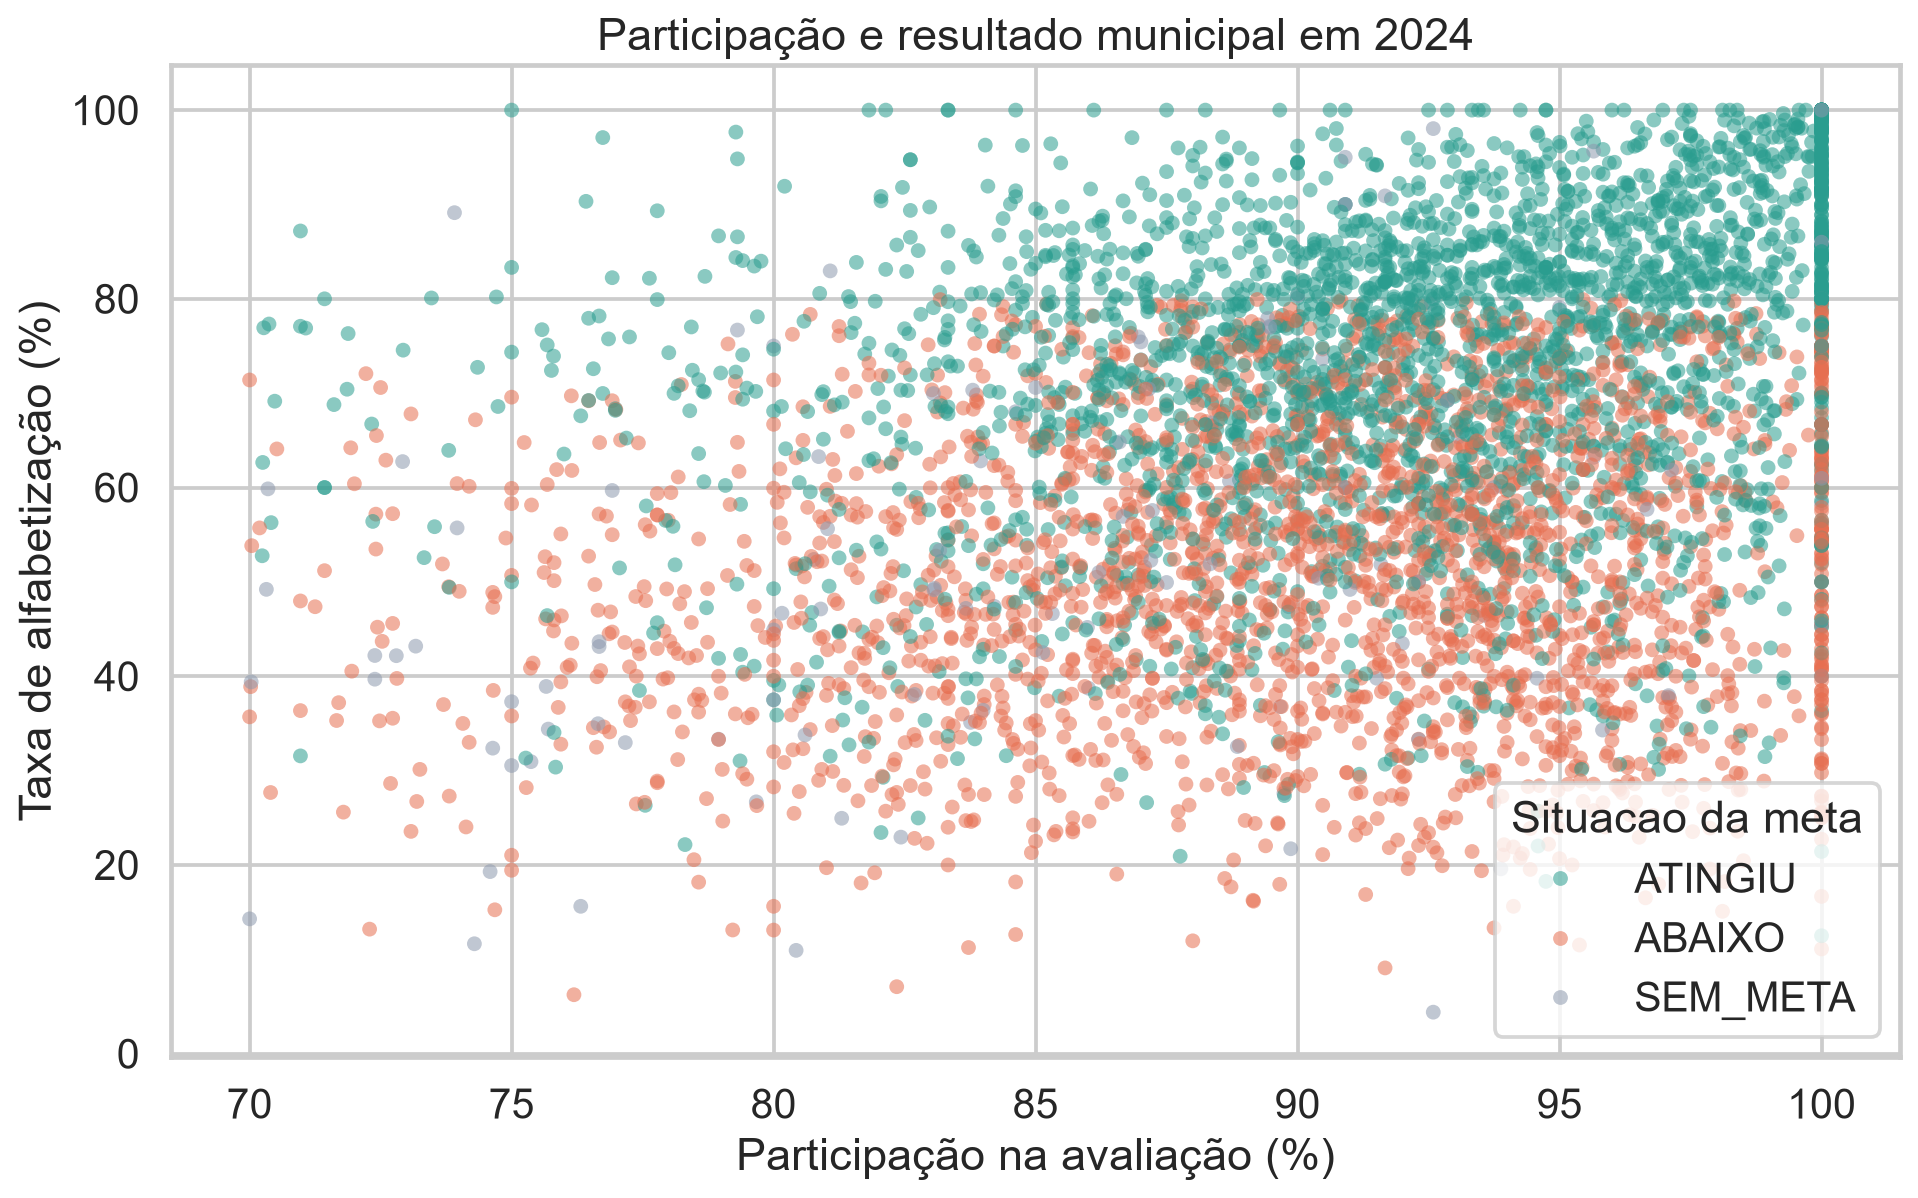
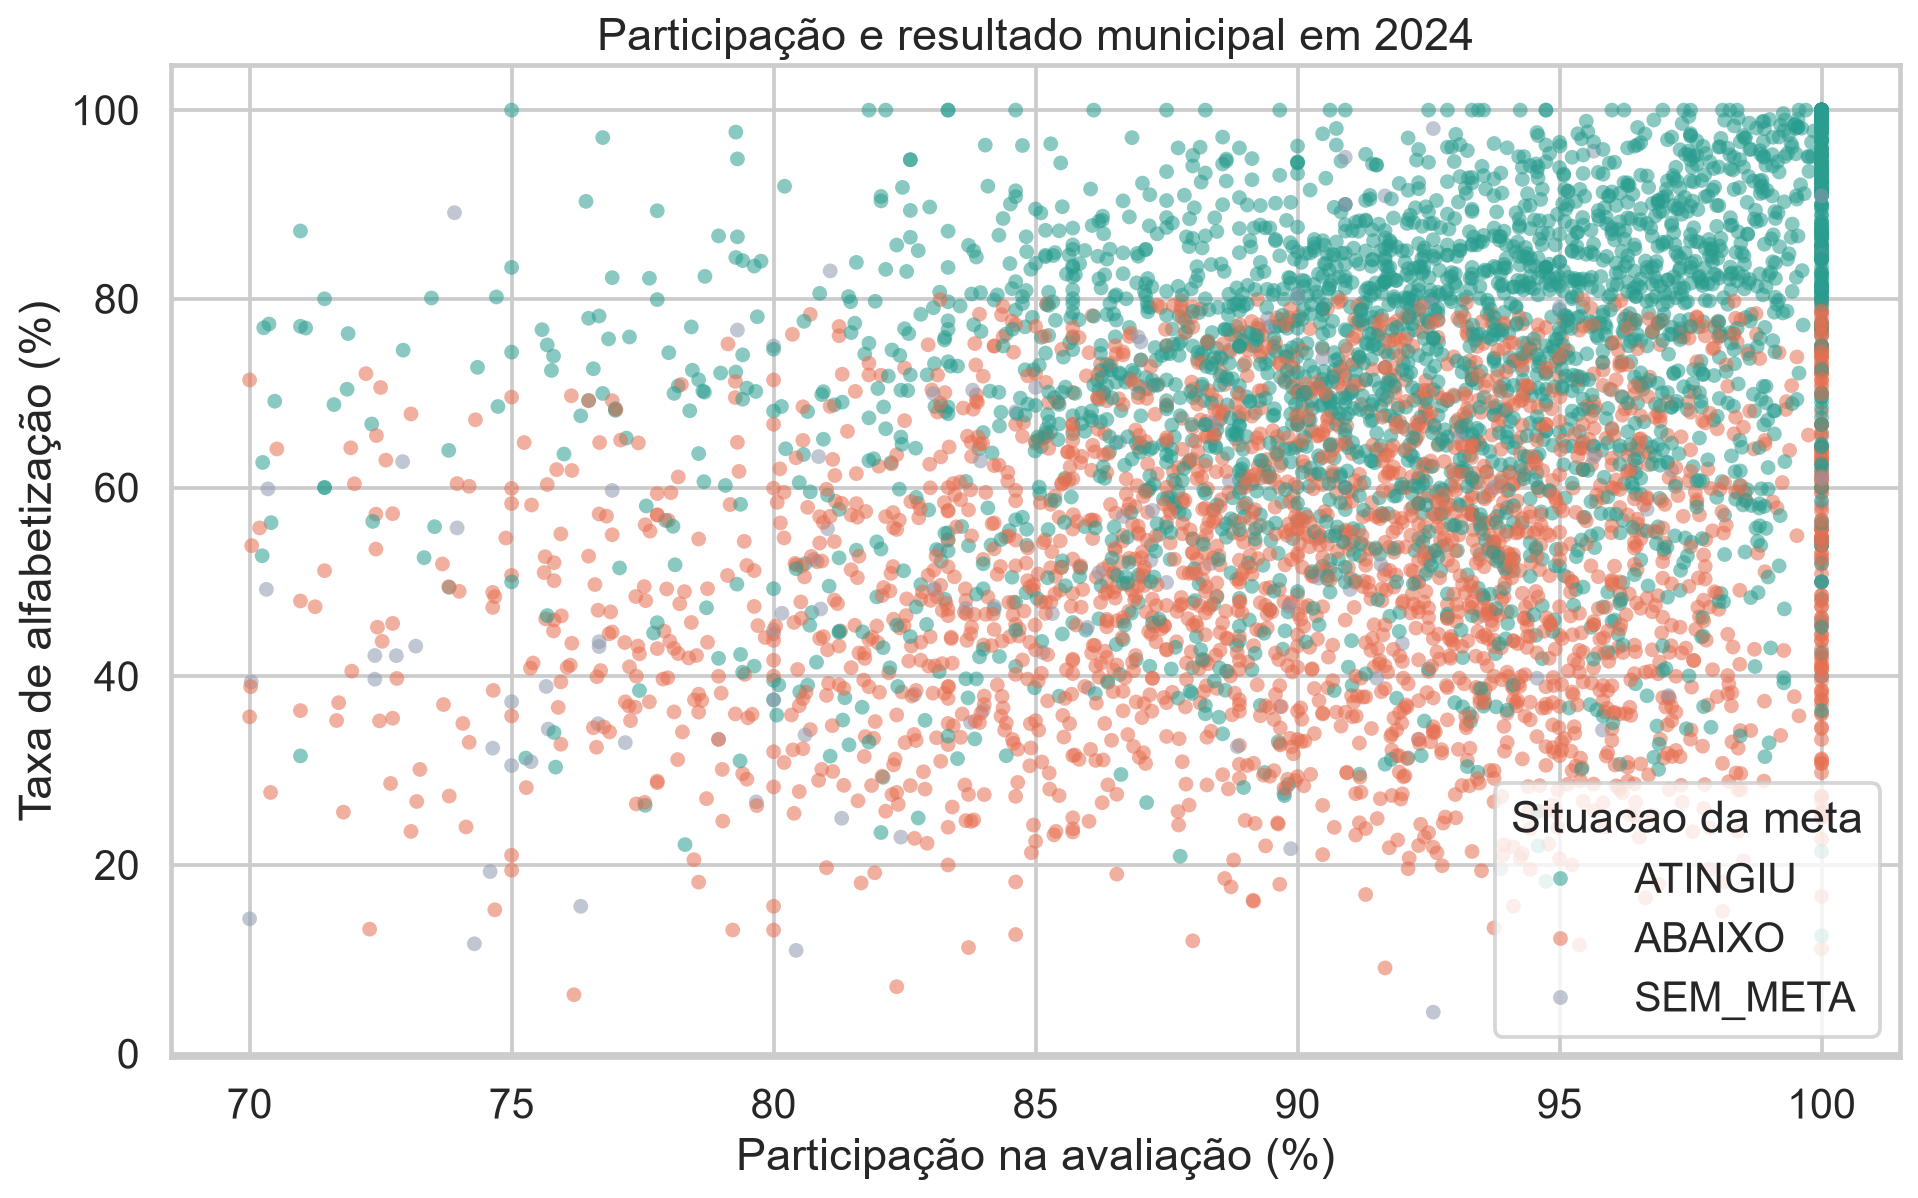
docs: consolida arquitetura completa e aplicacao de ia

diff --git a/README.md b/README.md
@@ -1,66 +1,112 @@
-# FIAP Tech Challenge — Avaliação da Alfabetização
+# FIAP Tech Challenge — Pipeline Híbrido para Análise da Alfabetização
 
-## Objetivo
+## Contexto
 
-Este projeto estrutura dados da Avaliação da Alfabetização em uma arquitetura
-medalhão, desde a ingestão dos arquivos de origem até indicadores analíticos
-para município, UF e Brasil.
+A alfabetização na infância é essencial para o desenvolvimento educacional e
+social. O projeto utiliza dados do Indicador Criança Alfabetizada, da Base dos
+Dados, para integrar resultados, metas e microdados educacionais. O indicador
+considera alfabetizado o estudante que atinge o nível definido na escala do
+Saeb e permite acompanhar desigualdades e a evolução das metas até 2030.
 
-## Arquitetura
+O desafio consiste em construir uma plataforma de dados híbrida, escalável e
+confiável para apoiar análises e políticas públicas baseadas em evidências.
+
+## Arquitetura da solução
+
+![Arquitetura completa da solução](docs/arquitetura-completa.png)
 
 ```text
-RAW → BRONZE → SILVER → GOLD → consultas e visualizações
+Fontes educacionais
+        ↓
+Ingestão batch + streaming simulado
+        ↓
+Amazon S3: Bronze → Silver → Gold
+        ↓
+Catálogo e consultas analíticas
+        ↓
+Visualizações, monitoramento e aplicações de IA
 ```
 
-- **RAW:** arquivos CSV de origem.
-- **Bronze:** dados convertidos para Parquet Snappy e particionados por ano.
-- **Silver:** dados tipados, padronizados, integrados e submetidos a regras de qualidade.
-- **Gold:** indicadores, metas, rankings, evolução e cobertura para análise.
+- **Bronze:** preservação dos dados ingeridos em Parquet Snappy, particionados por ano.
+- **Silver:** limpeza, tipagem, padronização, integração e validações de qualidade.
+- **Gold:** indicadores por município, UF e Brasil, metas, rankings e evolução temporal.
+- **Consumo:** consultas SQL, visualizações, dashboards e aplicações de inteligência artificial.
 
-O diagrama da arquitetura inicial está em
-[`docs/arquitetura-solucao.png`](docs/arquitetura-solucao.png). A evolução das
-Fases 2 e 3 está documentada em
-[`docs/arquitetura-fases-2-3.md`](docs/arquitetura-fases-2-3.md).
+O fluxo batch processa o histórico completo. O streaming simulado representa a
+chegada contínua de eventos, com 500 registros organizados em lotes.
 
-## Dados e fluxos
+## Resultados
 
-Foram utilizados dados da **Avaliação da Alfabetização**, disponibilizados pela
-Base dos Dados. A base de alunos possui 3.867.999 registros, referentes a 2023
-e 2024.
-
-O projeto contempla dois fluxos:
-
-- **Batch:** processamento integral dos CSVs de alunos, resultados e metas.
-- **Streaming simulado:** 500 eventos de alunos, organizados em 5 lotes de 100
-  registros, mantidos separados do processamento batch.
-
-## Implementação
+As três fases técnicas estão concluídas:
 
 | Fase | Entrega | Situação |
 |---|---|---|
-| 1 | Arquitetura, ingestão e Bronze | Concluída |
+| 1 | Arquitetura, ingestão híbrida e Bronze | Concluída |
 | 2 | Tratamento, integração, Silver e qualidade | Concluída |
-| 3 | Gold, consultas, visualizações e validação analítica | Concluída |
+| 3 | Gold, consultas, visualizações e IA aplicada | Concluída |
 
-### Qualidade e Silver
-
-A Fase 2 aplica tipagem, padronização de identificadores, integração de alunos,
-municípios, UFs e metas, além de exportação em Parquet Snappy particionado por
-ano. A execução gera relatórios de qualidade e manifestos. O resultado validado
-foi `PASS_WITH_WARNINGS`, sem erros bloqueantes.
-
-### Indicadores Gold
-
-As tabelas principais geradas são:
+Principais produtos analíticos:
 
 - 10.704 indicadores municipais;
 - 54 indicadores por UF;
-- 2 indicadores nacionais, para 2023 e 2024.
+- 2 indicadores nacionais, referentes a 2023 e 2024;
+- cinco visualizações para metas, evolução e desigualdades territoriais.
 
-Em 2024, o indicador nacional foi 59,2%, com meta de 59,9%, diferença de
--0,7 ponto percentual e evolução de +3,3 pontos percentuais em relação a 2023.
+Em 2024, o indicador nacional foi 59,2%, diante da meta de 59,9%, com evolução
+de +3,3 pontos percentuais em relação a 2023.
 
-## Execução local
+## Qualidade e governança
+
+O pipeline verifica duplicidades, valores ausentes, chaves de relacionamento e
+consistência entre tabelas. Também produz manifestos e relatórios de execução.
+A validação final não apresentou erros bloqueantes.
+
+Os dados individuais permanecem nas camadas de processamento. A camada Gold
+oferece apenas informações agregadas adequadas ao consumo analítico.
+
+## Monitoramento
+
+A arquitetura prevê o Amazon CloudWatch para acompanhar falhas, duração,
+latência e volume processado. EventBridge e Amazon SNS podem distribuir alertas
+operacionais. O Amazon Bedrock pode transformar métricas e relatórios de
+qualidade em resumos objetivos, sugerindo possíveis causas e próximos passos,
+sempre com validação humana.
+
+## Aplicação de inteligência artificial
+
+O Amazon Bedrock pode disponibilizar um assistente analítico sobre a camada
+Gold, permitindo perguntas em linguagem natural, geração de resumos para
+gestores e apoio à interpretação de alertas. Para modelos preditivos tabulares,
+como risco de não atingimento das metas, a camada Gold pode alimentar modelos
+no Amazon SageMaker.
+
+Os usos propostos incluem:
+
+- previsão da evolução da alfabetização;
+- identificação de municípios com maior risco educacional;
+- análise de desigualdades territoriais;
+- síntese de indicadores para políticas públicas;
+- triagem e contextualização de alertas do pipeline.
+
+Detalhes em [`docs/registro-uso-ia.md`](docs/registro-uso-ia.md).
+
+## FinOps
+
+As decisões de arquitetura reduzem custo sem comprometer a análise:
+
+- Parquet e compressão Snappy reduzem armazenamento e leitura;
+- particionamento por ano evita varreduras desnecessárias;
+- consultas sobre a camada Gold reduzem o volume processado;
+- serviços gerenciados e execução sob demanda evitam capacidade ociosa;
+- métricas de uso permitem acompanhar volume, duração e consumo.
+
+## Decisões e trade-offs
+
+- **Batch e streaming:** batch garante reprocessamento histórico; streaming atende eventos recentes e adiciona complexidade operacional.
+- **Data lake e warehouse:** o data lake preserva flexibilidade e baixo custo; a Gold fornece o contrato analítico necessário ao consumo.
+- **Custo e performance:** arquivos colunares, partições e agregações antecipadas favorecem consultas rápidas com menor leitura.
+
+## Execução
 
 Requer Python 3.11 ou superior.
 
@@ -72,33 +118,22 @@ python -m src.pipeline all
 python -m pytest -q
 ```
 
-Resultado de referência da suíte: `9 passed`.
+Resultado de referência: `9 passed`.
 
-## Visualizações e consultas
+## Estrutura e evidências
 
-As cinco visualizações e os resumos analíticos estão em
-[`docs/evidencias/fase-3/`](docs/evidencias/fase-3/). As consultas locais estão
-em [`sql/analytics/consultas_duckdb.sql`](sql/analytics/consultas_duckdb.sql) e
-as consultas analíticas equivalentes em `sql/athena/`.
+- [Mapa das pastas](docs/estrutura-do-projeto.md)
+- [Handoff técnico das Fases 2 e 3](docs/handoff-fases-2-3.md)
+- [Registro e proposta de uso de IA](docs/registro-uso-ia.md)
+- [Visualizações e resumos analíticos](docs/evidencias/fase-3/)
 
-## Estrutura e documentação
+As consultas locais estão em `sql/analytics/`, e os artefatos SQL da camada de
+consulta estão em `sql/athena/`.
 
-O mapa completo de pastas está em
-[`docs/estrutura-do-projeto.md`](docs/estrutura-do-projeto.md).
+## Tecnologias
 
-- [`docs/handoff-fases-2-3.md`](docs/handoff-fases-2-3.md): regras, resultados e evidências das Fases 2 e 3.
-- [`docs/registro-uso-ia.md`](docs/registro-uso-ia.md): registro de uso de IA no desenvolvimento.
-- [`docs/evidencias/fase-3/`](docs/evidencias/fase-3/): gráficos, CSVs e resumo de indicadores.
+Python, Pandas, DuckDB, PyArrow, Parquet, Amazon S3, AWS Glue Data Catalog,
+Amazon Athena, Amazon CloudWatch, Amazon Bedrock e Amazon SageMaker.
 
-## Tecnologias e decisões
-
-Python, Pandas, DuckDB, PyArrow, Parquet, Snappy e consultas SQL foram usados
-para priorizar processamento reproduzível, armazenamento colunar e consultas
-por período. O particionamento por ano reduz o volume lido em análises com
-recorte temporal.
-
-## Status final
-
-As três fases técnicas estão implementadas e os testes automatizados foram
-aprovados. O fechamento da entrega depende da revisão da equipe e da gravação
-do vídeo executivo.
+O código, os testes e a documentação estão versionados em branches de
+desenvolvimento e integrados à branch principal do projeto.

diff --git a/docs/registro-uso-ia.md b/docs/registro-uso-ia.md
@@ -1,23 +1,42 @@
-# Registro de uso de IA
+# Aplicação de inteligência artificial
 
-## Finalidade
+## Apoio à construção
 
-Ferramentas de IA generativa foram utilizadas como apoio ao desenvolvimento,
-revisão e documentação do projeto. As decisões técnicas, a validação dos
-resultados e a aprovação final permaneceram sob responsabilidade da equipe.
+A inteligência artificial apoiou a interpretação dos requisitos, a organização
+do plano de execução e a revisão de código, testes, consultas e documentação.
+As decisões arquiteturais e a validação dos resultados permaneceram sob
+responsabilidade da equipe.
 
-## Uso realizado
+## Uso na operação diária
 
-- apoio à leitura dos requisitos e organização do plano de execução;
-- auxílio na implementação e revisão do pipeline Silver e Gold;
-- elaboração e revisão de testes, consultas SQL e documentação técnica;
-- apoio na criação de descrições para arquitetura, evidências e README.
+O serviço proposto para IA generativa é o **Amazon Bedrock**. Ele pode consumir
+o contexto agregado da camada Gold e apoiar dois fluxos:
 
-## Validação humana
+1. **Assistente analítico:** respostas em linguagem natural, resumos de metas e
+   comparação entre municípios, UFs e Brasil.
+2. **Monitoria inteligente:** métricas do CloudWatch e relatórios de qualidade
+   são encaminhados por EventBridge para uma função de tratamento. O Bedrock
+   resume o alerta, classifica a severidade e sugere verificações. O Amazon SNS
+   distribui a notificação para a equipe.
 
-Todo código e texto gerado ou sugerido foi revisado pela equipe. Os resultados
-foram verificados pela execução local do pipeline, pela suíte automatizada e
-pela conferência dos indicadores analíticos.
+O Bedrock não altera dados nem executa correções automaticamente. Alertas e
+recomendações exigem validação humana e acesso controlado por IAM.
 
-Nenhuma credencial, dado pessoal identificável ou informação financeira foi
-incluída nos comandos, prompts ou evidências do projeto.
+## Modelos preditivos
+
+Para predição tabular, a camada Gold pode alimentar modelos no **Amazon
+SageMaker**, por exemplo:
+
+- probabilidade de um município não atingir sua meta;
+- previsão de evolução do indicador;
+- identificação de grupos com maior vulnerabilidade educacional.
+
+O Bedrock atua na interação, explicação e síntese; o SageMaker é responsável
+pelo treinamento e disponibilização dos modelos preditivos.
+
+## Privacidade e governança
+
+As aplicações de IA devem consumir preferencialmente dados Gold agregados. Não
+devem enviar microdados identificáveis para modelos generativos. Logs,
+permissões, prompts e respostas devem seguir políticas de retenção, auditoria e
+menor privilégio.

diff --git a/docs/arquitetura-fases-2-3.md b/docs/arquitetura-fases-2-3.md
@@ -1,19 +1,28 @@
-# Arquitetura complementar — Fases 2 e 3
+# Arquitetura completa da solução
 
-O arquivo `arquitetura-solucao.png` registra a implementação da Fase 1 e, por isso, apresenta Silver, Gold e consumo como etapas futuras. Ele não está incorreto. Para as Fases 2 e 3, a arquitetura passa a incluir o Amazon Athena como mecanismo de consulta sobre os arquivos Gold publicados no Amazon S3.
+A solução integra ingestão batch e streaming, armazenamento em arquitetura
+medalhão, processamento de qualidade, consultas analíticas, observabilidade e
+aplicações de inteligência artificial.
 
 ```mermaid
 flowchart LR
-    A[RAW<br/>CSV] --> B[Bronze<br/>Parquet + Snappy]
-    B --> C[Pipeline Python + DuckDB<br/>tipagem, limpeza e qualidade]
-    C --> D[Silver<br/>dados tratados e integrados]
-    D --> E[Gold<br/>indicadores e rankings]
-    E --> F[Amazon S3<br/>partições ano=YYYY]
-    F --> G[Athena + Glue Data Catalog<br/>SQL sobre Parquet]
-    G --> H[Consultas, evidências<br/>e visualizações]
-    B -. streaming simulado separado .-> C
+    A[Base dos Dados e fontes educacionais] --> B[Ingestão batch]
+    A --> C[Streaming simulado]
+    B --> D[Amazon S3 - Bronze]
+    C --> D
+    D --> E[Processamento e qualidade]
+    E --> F[Amazon S3 - Silver]
+    F --> G[Indicadores e agregações]
+    G --> H[Amazon S3 - Gold]
+    H --> I[AWS Glue Data Catalog]
+    I --> J[Amazon Athena]
+    J --> K[Consultas e visualizações]
+    H --> L[Amazon Bedrock e SageMaker]
+    M[CloudWatch, EventBridge e SNS] -. monitora .-> B
+    M -. monitora .-> E
+    M -. monitora .-> G
+    M --> L
 ```
 
-O Athena não substitui nenhuma camada do modelo medalhão. Ele é a camada de consulta que lê os Parquets no S3 por meio de tabelas externas registradas no catálogo.
-
-Nesta entrega temporária, a infraestrutura de nuvem é propositalmente mínima: um bucket privado, um banco lógico no catálogo e um workgroup do Athena. Não são necessários Glue Crawler, Glue Job, QuickSight, Lambda ou recursos provisionados.
+O diagrama visual em alta resolução está em
+[`docs/arquitetura-completa.png`](arquitetura-completa.png).

diff --git a/docs/handoff-fases-2-3.md b/docs/handoff-fases-2-3.md
@@ -43,7 +43,7 @@ As tabelas principais são:
 
 Também foram geradas tabelas auxiliares de evolução, ranking, resumo por UF, metas em formato longo e cobertura de qualidade.
 
-As consultas locais estão em `sql/analytics/consultas_duckdb.sql`. Os DDLs e as consultas equivalentes para Athena estão em `sql/athena/`.
+As consultas locais estão em `sql/analytics/consultas_duckdb.sql`. Os artefatos da camada de consulta estão em `sql/athena/`.
 
 As cinco visualizações e os resumos em CSV/JSON estão em `docs/evidencias/fase-3/`:
 

diff --git a/docs/estrutura-do-projeto.md b/docs/estrutura-do-projeto.md
@@ -8,6 +8,7 @@ FIAP-Tech-Challenge-Alfabetizacao/
 ├── docs/
 │   ├── evidencias/fase-3/  # visualizações e resumos analíticos
 │   ├── arquitetura-solucao.png
+│   ├── arquitetura-completa.png
 │   ├── arquitetura-fases-2-3.md
 │   ├── handoff-fases-2-3.md
 │   └── registro-uso-ia.md
